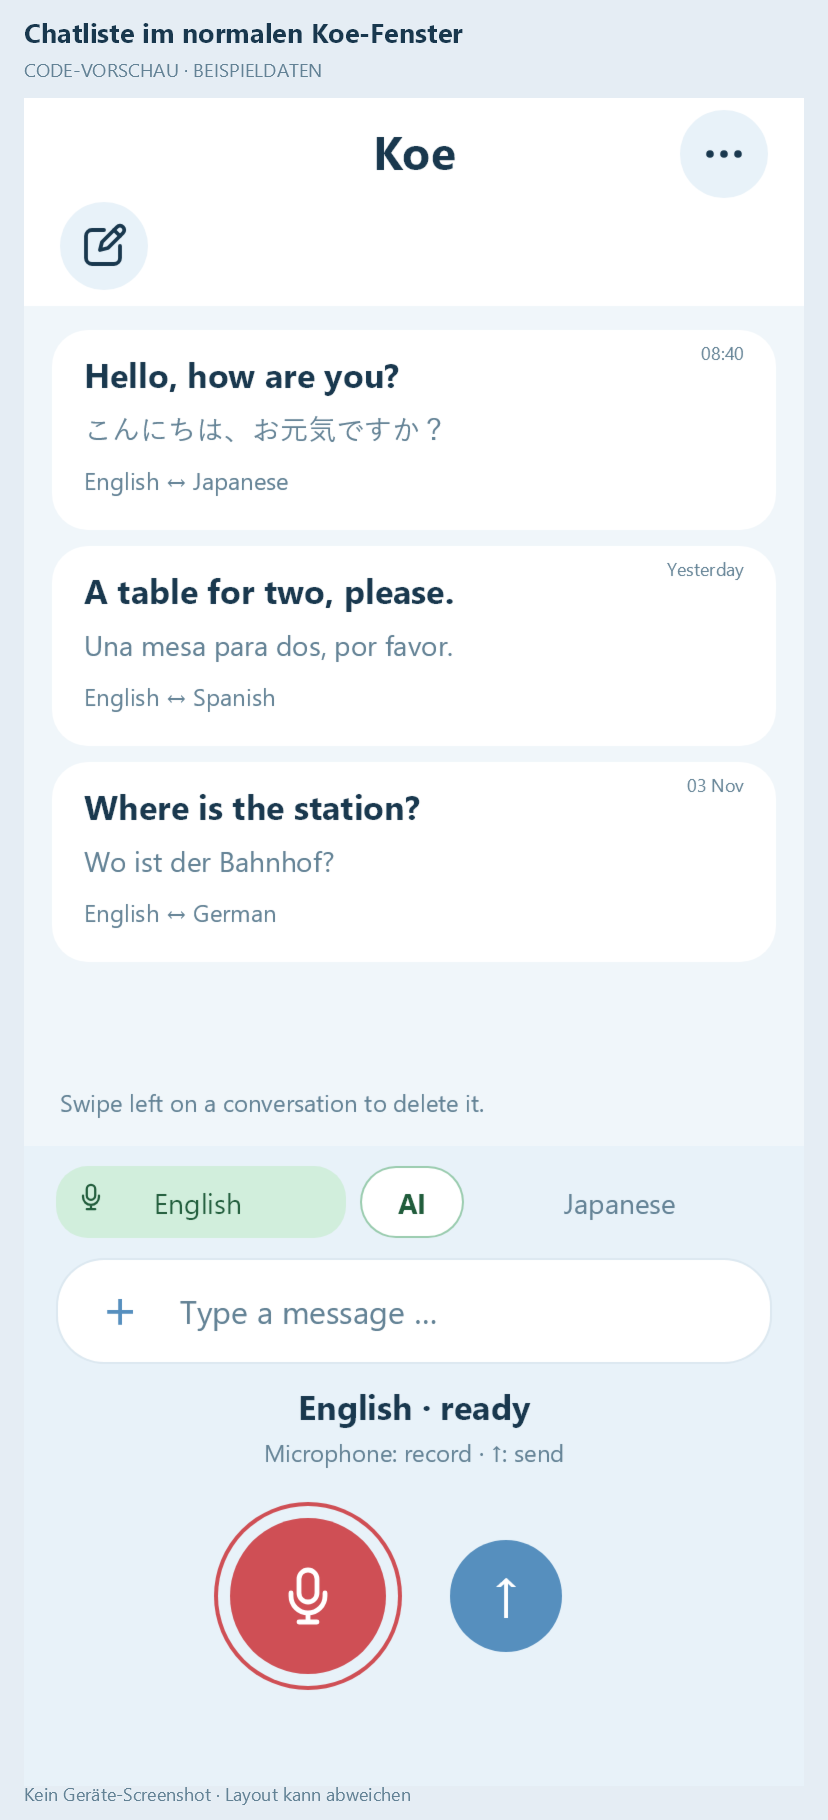
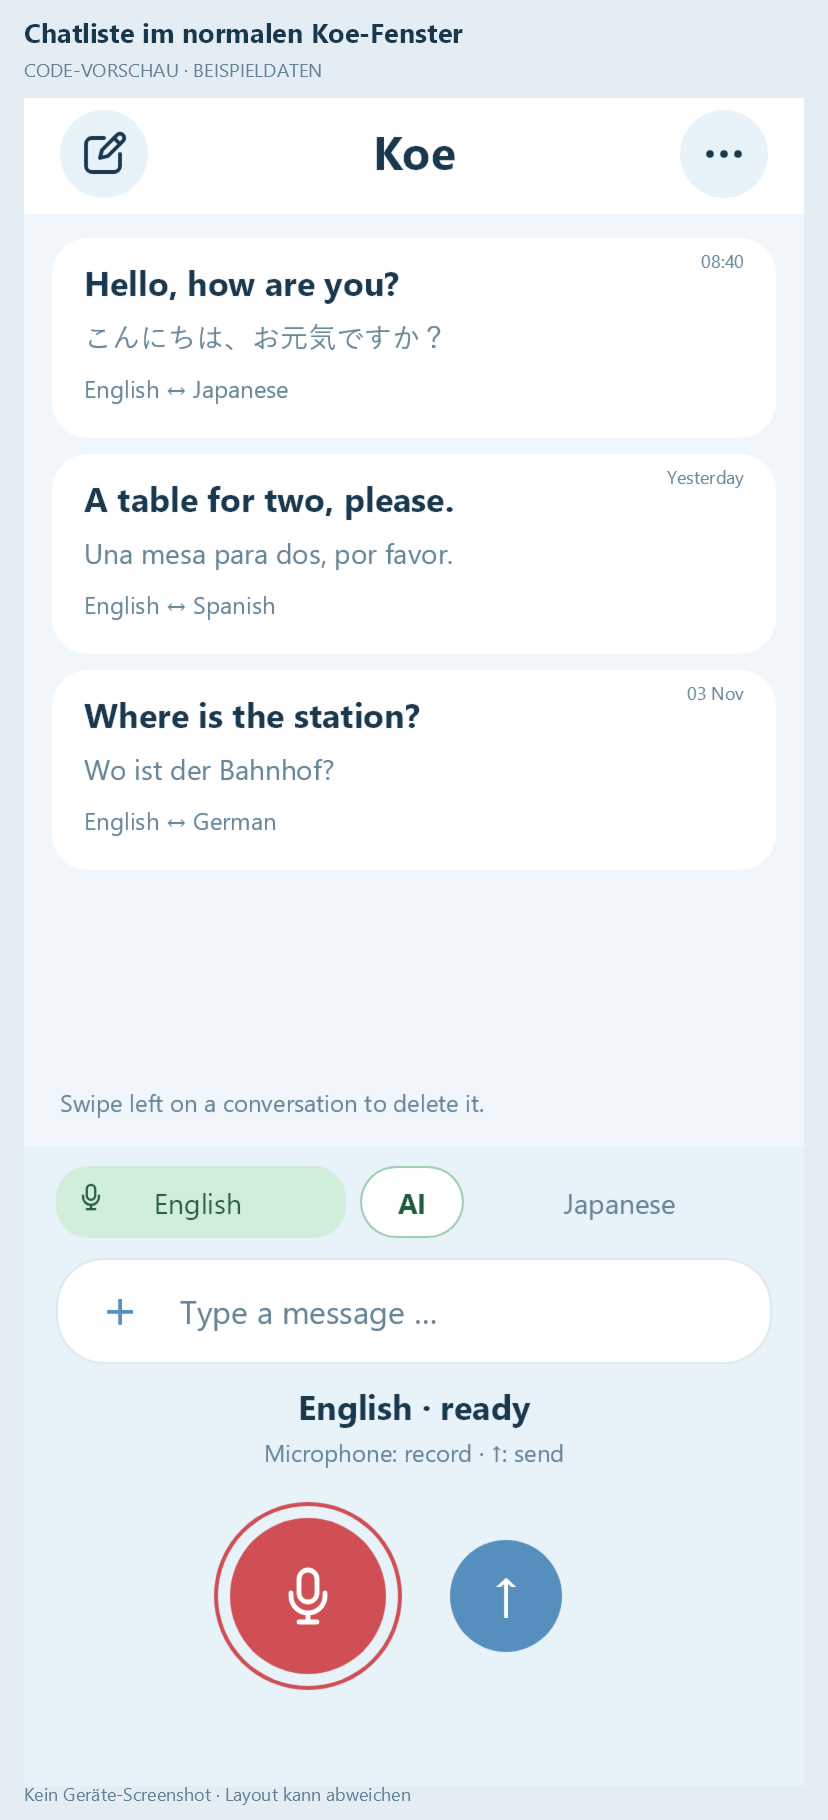
Compact header into one row with centered title and shared navigation slot

Changed region(s): [[0.0906, 0.1231, 0.5435, 0.5231], [0.0906, 0.0615, 0.151, 0.0923], [0.2415, 0.4923, 0.2717, 0.5231]]

diff --git a/Koe-Maui/MainPage.cs b/Koe-Maui/MainPage.cs
@@ -113,21 +113,18 @@ public sealed class MainPage : ContentPage
         menu.Clicked += async (_, _) => { if (!busy && !leavingConversation && !recording.HasTurn) await ShowSettingsAsync(); };
         newConversation.Clicked += async (_, _) => await StartNewConversationAsync();
         SemanticProperties.SetDescription(newConversation, "Start a new conversation");
-        var header = new VerticalStackLayout
+        var header = new Grid
         {
-            Padding = new Thickness(18, 6, 18, 8), Spacing = 2, BackgroundColor = Colors.White
+            Padding = new Thickness(18, 6, 18, 8), ColumnSpacing = 0, BackgroundColor = Colors.White,
+            ColumnDefinitions = { new(44), new(GridLength.Star), new(44) }
         };
         SemanticProperties.SetDescription(chatBack, "Show saved conversations");
         chatBack.Clicked += async (_, _) => await BackToChatsAsync();
-        // The title has its own centered row; chat navigation stays in the row below.
-        var heading = new Grid { ColumnSpacing = 0, ColumnDefinitions = { new(44), new(GridLength.Star), new(44) } };
-        heading.Add(new Label { Text = "Koe", FontSize = 23, FontAttributes = FontAttributes.Bold, TextColor = Ink, HorizontalTextAlignment = TextAlignment.Center, VerticalTextAlignment = TextAlignment.Center, MaxLines = 1 }, 1, 0);
-        heading.Add(menu, 2, 0);
-        header.Children.Add(heading);
-        var navigation = new Grid { ColumnSpacing = 0, ColumnDefinitions = { new(44), new(GridLength.Star), new(44) } };
-        navigation.Add(chatBack, 0, 0);
-        navigation.Add(newConversation, 0, 0);
-        header.Children.Add(navigation);
+        // Equal side slots keep the title centered as the left button changes.
+        header.Add(chatBack, 0, 0);
+        header.Add(newConversation, 0, 0);
+        header.Add(new Label { Text = "Koe", FontSize = 23, FontAttributes = FontAttributes.Bold, TextColor = Ink, HorizontalTextAlignment = TextAlignment.Center, VerticalTextAlignment = TextAlignment.Center, MaxLines = 1 }, 1, 0);
+        header.Add(menu, 2, 0);
         signInCard = new Border
         {
             Margin = new Thickness(16, 10), Padding = 14, StrokeThickness = 0, BackgroundColor = Color.FromArgb("#E1EEF8"), StrokeShape = new RoundRectangle { CornerRadius = 18 },

diff --git a/README.md b/README.md
@@ -10,7 +10,7 @@ Completed translations, bilingual AI messages, transliterations, source links, s
 
 A per-chat JSON manifest is written to a temporary file, flushed and atomically renamed. The last valid manifest is retained as a recovery backup. Photos are stored separately by content hash inside the chat folder, rather than copied into every message or JSON rewrite. Deleting a chat removes its manifest, backup and photos; queued saves cannot recreate that deleted chat. Credentials and personal voice API keys remain in SecureStorage and are never included in chat files. Paths are reconstructed from AppDataDirectory on each launch. This is device-local chat storage, not a new account or app-provided cross-device sync. Existing conversations that were already lost by older builds cannot be recovered.
 
-The header has two rows. **Koe** stays centered in the top row, with the ellipsis Settings button on the right and an equal reserved slot on the left. The second row has a single left-hand navigation slot: the chat list shows the square-and-pencil new-conversation button; an opened conversation shows the round back button in exactly the same place. Returning to the list restores the new-chat button. The title stays centered throughout. The icon colors follow Koe's light blue palette.
+The compact header uses one row: the left-hand slot shows the square-and-pencil new-conversation button in the chat list or the round back button in an opened conversation, **Koe** stays centered, and the ellipsis Settings button sits on the right. Both side slots have the same width, so swapping the left button does not move the title. Returning to the list restores the new-chat button. The icon colors follow Koe's light blue palette.
 
 **Settings** opens a grouped sheet with rounded cards, a centered heading, a Done button, text-size checkmarks and a transliteration switch. Its first **ChatGPT** group contains the live connection status, account name and model picker. These controls are no longer in the chat header. Language selection, iPhone voice selection, optional OpenAI voice setup, usage and sign-in/sign-out remain accessible. Colors adapt to the device's light/dark appearance; the OpenAI key/setup sheet uses the same readable grouped style. The **Account and billing** group lists **Manage usage**, then **OpenAI voice** (API key, voice and billing setup), then sign-in/sign-out. The ChatGPT login and API-cost consent for optional OpenAI speech are retained.
 

diff --git a/store-assets/previews/README.md b/store-assets/previews/README.md
@@ -2,11 +2,11 @@
 
 These illustrations explain the current layout in `MainPage.cs`,
 `ConversationListView.cs` and `SettingsPage.cs`, including the square-and-pencil
-new-chat icon, two-row header and the relocated OpenAI voice setup.
-The title is centered in its own top row, with Settings on the right. The row
-below has one shared left-hand slot: new chat in the list, back in a conversation.
-Connection status and model selection
-are in the first ChatGPT Settings group.
+new-chat icon, compact single-row header and the relocated OpenAI voice setup.
+The shared left-hand slot shows new chat in the list or back in a conversation;
+Koe is centered on that same row, with Settings on the right. Equal-width side
+slots keep the title stationary. Connection status and model selection are in
+the first ChatGPT Settings group.
 They are **not screenshots captured from the running application or an iPhone**.
 The native app window could not be opened in the current desktop session
 (`GetCursorPos failed: Access is denied`).
